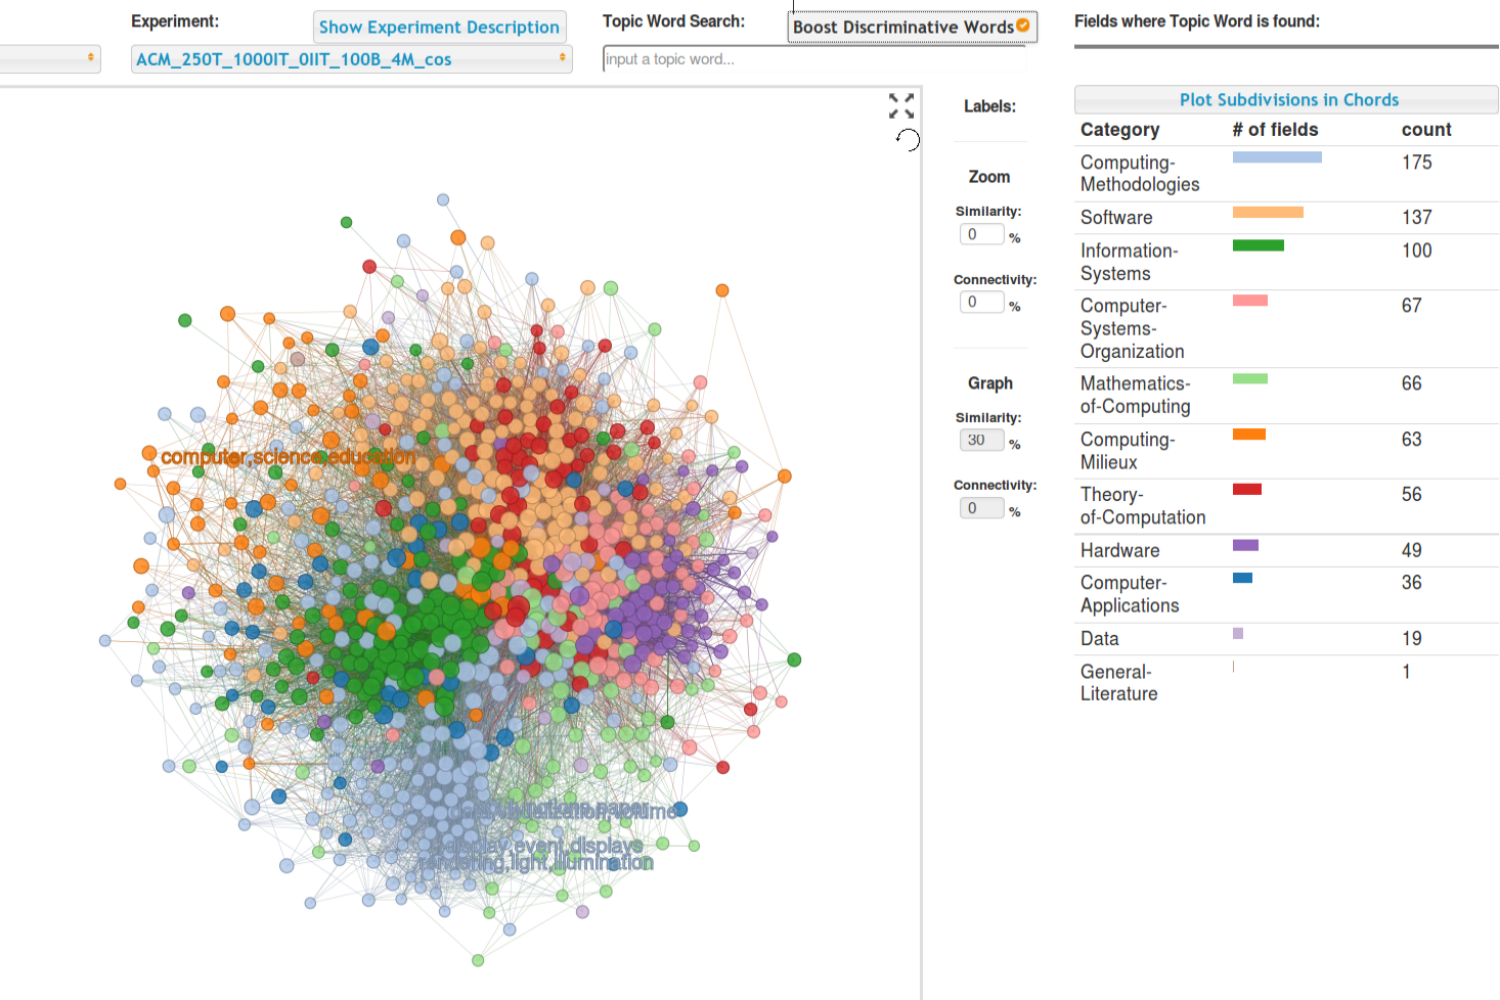
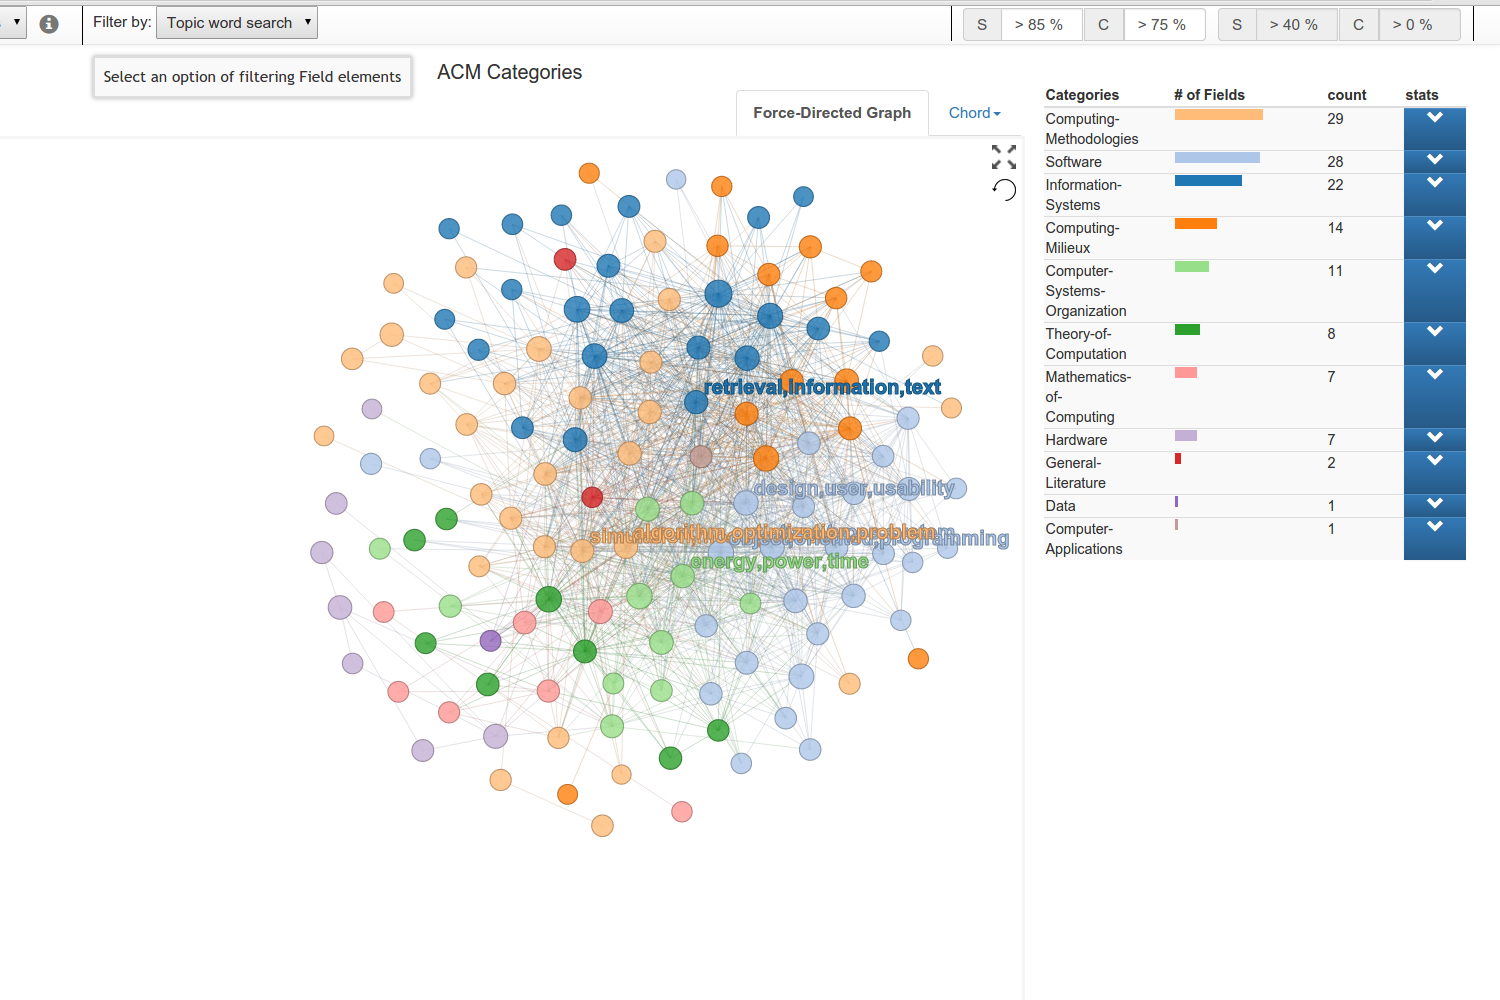
two new visualizations. fixed configuration files with their queries. small change on fading of topic word bags. change position of spinner. change function showtype in link fading from or || to and &&. added layouts in index.html

diff --git a/index.html b/index.html
@@ -175,7 +175,7 @@
                             	<span style="overflow:fixed">Experiments:</span>
 	                            <p style="overflow:scroll; height:30px;  overflow-y:; overflow-x:hidden;">
                             		<!-- <a href="./layouts/acm/categories/?ex=ACM_200T_1000IT_0IIT_100B_4M_cos" target="_blank" title="ACM_200T_1000IT_0IIT_100B_4M_cos">ACM_200T_1000IT_0IIT_100B_4M_cos</a><br/> -->
-	                            	<a href="./layouts/acm/categories/?ex=ACM_250T_1000IT_0IIT_100B_4M_cos&s=0.6" target="_blank" title="ACM_250T_1000IT_0IIT_100B_4M_cos">ACM_250T_1000IT_0IIT_100B_4M_cos</a>
+	                            	<a href="./layouts/acm/categories/?ex=ACM_250T_1000IT_0IIT_100B_4M_cos&s=0.85&g=9&c=-6450" target="_blank" title="ACM_250T_1000IT_0IIT_100B_4M_cos">ACM_250T_1000IT_0IIT_100B_4M_cos</a>
 	                            </p>
 
 	                            <p><a href="./images/acm_categories.png" class="btn btn-inverse" target="_blank" rel="tooltip" title="Preview Image"><i class="icon-eye-open"></i></a>  <a href="./layouts/acm/categories/" target="_blank" rel="tooltip" title="Visit Webpage" class="btn btn-inverse"><i class="icon-share"></i></a>
@@ -229,13 +229,19 @@
                     <div class="thumbnail">
                         <p class="front" style="position: absolute; background: #000; opacity 08.; color:#fff; width:98%;">ACM Authors</p>
                         <div class="caption">
-                            <h4>ACM Authors</h4>
+                             <h4>ACM Authors</h4>
 
-                            <p><a href="#" class="btn btn-inverse" rel="tooltip" title="Preview Image"><i class="icon-eye-open"></i></a>  <a href="#" rel="tooltip" title="Visit Webpage" class="btn btn-inverse"><i class="icon-share"></i></a>
+                                <span style="overflow:fixed">Experiments:</span>
+                                <p style="overflow:scroll; height:30px;  overflow-y:; overflow-x:hidden;">
+                                    <!-- <a href="./layouts/acm/categories/?ex=ACM_200T_1000IT_0IIT_100B_4M_cos" target="_blank" title="ACM_200T_1000IT_0IIT_100B_4M_cos">ACM_200T_1000IT_0IIT_100B_4M_cos</a><br/> -->
+                                    <a href="./layouts/acm/authors/?ex=ACM_250T_1000IT_0IIT_100B_4M_cos&s=0.55&g=3&c=-450" target="_blank" title="ACM_250T_1000IT_0IIT_100B_4M_cos">ACM_250T_1000IT_0IIT_100B_4M_cos</a>
+                                </p>
+
+                                <p><a href="./images/acm_authors.png" class="btn btn-inverse" target="_blank" rel="tooltip" title="Preview Image"><i class="icon-eye-open"></i></a>  <a href="./layouts/acm/authors/" target="_blank" rel="tooltip" title="Visit Webpage" class="btn btn-inverse"><i class="icon-share"></i></a>
 
                             </p>
                         </div>
-                        <img src="http://placehold.it/600x400" alt="ALT NAME">
+                        <img src="./images/acm_authors.png" alt="acm_authors.png">
                     </div>
                      <h4>ACM Authors</h4>
                 </li><br/>

diff --git a/layouts/acm/authors/config.php b/layouts/acm/authors/config.php
@@ -30,12 +30,13 @@ $memcache_time = 2592000;				//600 = 10 minutes 		//2592000 = 30 days (maximum f
 
 
 //$query_graphLayout = "select EntityId1,EntityId2,OurCategory1,CV1_Category0,CV1_Category1,OurCategory2,CV2_Category0,CV2_Category1,catCnts1,catCnts2,Similarity from EntitySimilarityView_cat where ExperimentId=?  and  Similarity>?";
-$query_graphLayout = "select EntityId1 as node1id,EntityId2 as node2id,EntityId1 as node1name,EntityId2 as node2name,AC1_Category0 as category1_1, AC1_Category0 as category1_2, AC1_Category0 as category1_3, AC2_Category0 as category2_1, AC2_Category0 as category2_2,AC2_Category0 as category2_3, catCnts1 as category1_counts,catCnts2 as category2_counts,Similarity from EntitySimilarityView_authors where ExperimentId=?  and  Similarity>?";
+$query_graphLayout = "select EntityId1 as node1id,EntityId2 as node2id,Author1 as node1name,Author2 as node2name,AC1_Category0 as category1_1, AC1_Category0 as category1_2, AC1_Category0 as category1_3, AC2_Category0 as category2_1, AC2_Category0 as category2_2,AC2_Category0 as category2_3, catCnts1 as category1_counts,catCnts2 as category2_counts,Similarity from EntitySimilarityView_authors where ExperimentId=? and  Similarity>?";
 $query_experiments = "select distinct ExperimentId,Description from experiment";
-//$query_grants = "select PubCategory.Category, TopicId, AVG(weight) as Weight from topicsPerDoc Inner Join PubCategory on topicsPerDoc.DocId= PubCategory.PubId INNER JOIN (Select Category FROM pubCategory GROUP BY Category HAVING Count(*)>10) catCnts1 ON catCnts1.Category = PubCategory.category where weight>0.02 AND ExperimentId=? group By PubCategory.Category , TopicId order by  pubCategory.Category, Weight desc, TopicId";
 
-// to experiment to ebala mesa sto view
-$query_grants = "select * from topicsPerDocview;";
+//$query_grants = "select PubCategoryview.Category, TopicId, AVG(weight) as Weight from topicsPerDoc Inner Join PubCategoryview on topicsPerDoc.DocId= PubCategoryview.PubId INNER JOIN (Select Category FROM PubCategoryview GROUP BY Category HAVING Count(*)>10) catCnts1 ON catCnts1.Category = PubCategoryview.category where weight>0.02 AND ExperimentId=? group By PubCategoryview.Category, TopicId order by  PubCategoryview.Category, Weight desc, TopicId";
+//$query_grants = "select category, topicid, Weight from topiccategoryview where ExperimentId=?";
+$query_grants = "select authorid, topicid, Weight from topicauthorview where ExperimentId=?";
+
 $query_topics = "select TopicId,Item, WeightedCounts from topicdescriptionview where ExperimentId=? Order By TopicID ASC, WeightedCounts DESC";
 $query_topics_nosort = "select TopicId,Item, WeightedCounts from topicdescriptionview where ExperimentId=? Order By TopicID ASC, Counts DESC";
 
@@ -46,9 +47,9 @@ $query_topics_nosort = "select TopicId,Item, WeightedCounts from topicdescriptio
 
 $title = "ACM Authors";								// title of the webpage
 $subtitle = "";								// subtitle of the webpage
-$experimentName = "ACM_250T_1000IT_0IIT_100B_4M_cos";	// first experiment to load 
+$experimentName = "ACM_250T_1000IT_0IIT_100B_4M_cos";	// first experiment to load
 $experimentDescription = "Topic modeling based on: 1)Abstracts from ACM publications 2)Authors 3)Citations 4)ACMCategories SimilarityType:cos Similarity on Authors & Categories"; 	// first description to load
-$node_name = "Authors";
+$node_name = "Author";
 $node_groupName1 = "Authors";
 $node_groupName2 = "Authors";
 $node_areaName = "ACM Category";
@@ -62,7 +63,7 @@ $fontsizeVar = 26; 				// 43 fontsizeVar variable multiplied with previous_scale
 $smallestFontVar = 13;
 
 // similarities for the graph labeling 
-$expsimilarity = 0.6;			// similarity for querying the database
+$expsimilarity = 0.55;			// similarity for querying the database
 $similarityThr = 0.68;			// similarity threshold
 $nodeConnectionsThr = 0.1; 		// node connections threshold
 $maxNodeConnectionsThr = 0; 	//percentage of minimum node connections for label printing
@@ -70,14 +71,21 @@ $linkThr = 0.4;					//similarity value threshold for label printin
 
 // d3 layout plotting
 $charge = -450;					// according to http://jsfiddle.net/cSn6w/8/			// charge of each 'electron' - or 'proton' +, positive or negative
-$gravity = 2;					// sets how close to each other the nodes are... if >1000 nodes it is good to be a number >2
+$gravity = 3;					// sets how close to each other the nodes are... if >1000 nodes it is good to be a number >2
 
 // d3 chord dimensions
-$chord_width = 0;
-$chord_height = 0;
-$wordWidth = 50;
+// $chord_width = 0;
+// $chord_height = 0;
+// $wordWidth = 50;
+// $wordHeight = 180;
+// $wordPadding = -15;				//-15 is for padding labels outside the outerRadius
+// $groupPadding = .06;			// padding between groups
+
+$chord_width = -100;
+$chord_height = -250;
+$wordWidth = 250;
 $wordHeight = 180;
-$wordPadding = -15;				//-15 is for padding labels outside the outerRadius
+$wordPadding = 0;				//-15 is for padding labels outside the outerRadius
 $groupPadding = .06;			// padding between groups
 
 

diff --git a/layouts/acm/categories/config.php b/layouts/acm/categories/config.php
@@ -14,9 +14,12 @@ $db_path = "../../../dbs/".$db_name;
 $memcache_time = 2592000;				//600 = 10 minutes 		//2592000 = 30 days (maximum for memcached) //600 = 10 minutes
 
 //$query_graphLayout = "select EntityId1,EntityId2,OurCategory1,CV1_Category0,CV1_Category1,OurCategory2,CV2_Category0,CV2_Category1,catCnts1,catCnts2,Similarity from EntitySimilarityView_cat where ExperimentId=?  and  Similarity>?";
-$query_graphLayout = "select EntityId1 as node1id,EntityId2 as node2id,EntityId1 as node1name,EntityId2 as node2name,OurCategory1 as category1_0,CV1_Category0 as category1_1,CV1_Category1 as category1_2,OurCategory2 as category2_0,CV2_Category0 as category2_1,CV2_Category1  as category2_2,catCnts1 as category1_counts,catCnts2 as category2_counts,Similarity from EntitySimilarityView_cat where ExperimentId=?  and  Similarity>?";
+$query_graphLayout = "select EntityId1 as node1id,EntityId2 as node2id,EntityId1 as node1name,EntityId2 as node2name,rootcategory1 as category1_0,rootcategory1 as category1_1,rootcategory1 as category1_2,rootcategory2 as category2_0,rootcategory2 as category2_1,rootcategory2  as category2_2,catCnts1 as category1_counts,catCnts2 as category2_counts,Similarity from EntitySimilarityView_cat where ExperimentId=?  and  Similarity>?";
+//$query_graphLayout = "select EntityId1 as node1id,EntityId2 as node2id,EntityId1 as node1name,EntityId2 as node2name,AC1_Category0 as category1_1, AC1_Category0 as category1_2, AC1_Category0 as category1_3, AC2_Category0 as category2_1, AC2_Category0 as category2_2,AC2_Category0 as category2_3, catCnts1 as category1_counts,catCnts2 as category2_counts,Similarity from EntitySimilarityView_cat where ExperimentId=? and  Similarity>?";
+
 $query_experiments = "select distinct ExperimentId,Description from experiment";
-$query_grants = "select PubCategory.Category, TopicId, AVG(weight) as Weight from topicsPerDoc Inner Join PubCategory on topicsPerDoc.DocId= PubCategory.PubId INNER JOIN (Select Category FROM pubCategory GROUP BY Category HAVING Count(*)>10) catCnts1 ON catCnts1.Category = PubCategory.category where weight>0.02 AND ExperimentId=? group By PubCategory.Category , TopicId order by  pubCategory.Category, Weight desc, TopicId";
+//$query_grants = "select PubCategoryview.Category, TopicId, AVG(weight) as Weight from topicsPerDoc Inner Join PubCategoryview on topicsPerDoc.DocId= PubCategoryview.PubId INNER JOIN (Select Category FROM PubCategoryview GROUP BY Category HAVING Count(*)>10) catCnts1 ON catCnts1.Category = PubCategoryview.category where weight>0.02 AND ExperimentId=? group By PubCategoryview.Category, TopicId order by  PubCategoryview.Category, Weight desc, TopicId";
+$query_grants = "select catid, topicid, Weight from topiccategoryview where ExperimentId=?";
 $query_topics = "select TopicId,Item, WeightedCounts from topicdescriptionview where ExperimentId=? Order By TopicID ASC, WeightedCounts DESC";
 $query_topics_nosort = "select TopicId,Item, WeightedCounts from topicdescriptionview where ExperimentId=? Order By TopicID ASC, Counts DESC";
 
@@ -43,22 +46,22 @@ $fontsizeVar = 26; 				// 43 fontsizeVar variable multiplied with previous_scale
 $smallestFontVar = 13;
 
 // similarities for the graph labeling 
-$expsimilarity = 0.6;			// similarity for querying the database
-$similarityThr = 0.68;			// similarity threshold
-$nodeConnectionsThr = 0.1; 		// node connections threshold
+$expsimilarity = 0.85;			// similarity for querying the database
+$similarityThr = 0.85;			// similarity threshold
+$nodeConnectionsThr = 0.75; 		// node connections threshold
 $maxNodeConnectionsThr = 0; 	//percentage of minimum node connections for label printing
 $linkThr = 0.4;					//similarity value threshold for label printin
 
 // d3 layout plotting
-$charge = -450;					// according to http://jsfiddle.net/cSn6w/8/			// charge of each 'electron' - or 'proton' +, positive or negative
-$gravity = 2;					// sets how close to each other the nodes are... if >1000 nodes it is good to be a number >2
+$charge = -6450;					// according to http://jsfiddle.net/cSn6w/8/			// charge of each 'electron' - or 'proton' +, positive or negative
+$gravity = 9;					// sets how close to each other the nodes are... if >1000 nodes it is good to be a number >2
 
 // d3 chord dimensions
-$chord_width = 0;
-$chord_height = 0;
-$wordWidth = 50;
+$chord_width = -100;
+$chord_height = -250;
+$wordWidth = 250;
 $wordHeight = 180;
-$wordPadding = -15;				//-15 is for padding labels outside the outerRadius
+$wordPadding = 0;				//-15 is for padding labels outside the outerRadius
 $groupPadding = .06;			// padding between groups
 
 

diff --git a/php/index_code.php b/php/index_code.php
@@ -289,7 +289,7 @@
 			clrArray = [],
 			plot = 0,
 			experDescription = "",
-			target = document.getElementById('mygraph'),
+			target = document.getElementById('graphdiv'),
 			opts = {
 				lines: 17, // The number of lines to draw
 				length: 20, // The length of each line
@@ -1210,7 +1210,7 @@ $("#ex6").on("slide", function(slideEvt) {
 
 		/* links stay with opacity or not in hover according to below condition */
 			linkLines.style("stroke-opacity", function(o) {
-				return types.indexOf(o.source.color) != -1 || types.indexOf(o.target.color) != -1 ? normal/2 : opacity;
+				return types.indexOf(o.source.color) != -1 && types.indexOf(o.target.color) != -1 ? normal/2 : opacity;
 			});
 
 
@@ -1262,7 +1262,6 @@ $("#ex6").on("slide", function(slideEvt) {
 
 		function showtype3(opacity, types){
 			nodeCircles.style("fill-opacity", function(o) {
-			console.log(o)
 				if(types.indexOf(o.name) === -1)
 					return opacity;
 				else
@@ -1298,10 +1297,8 @@ $("#ex6").on("slide", function(slideEvt) {
 			linkLines.style("stroke-opacity", function(o) {
 				return types.indexOf(o.source.name) != -1 || types.indexOf(o.target.name) != -1 ? normal/2 : opacity;
 			});
-
-
-
 		}
+
 
 	/* fade */
 		function fade(opacity, showText) {
@@ -1315,6 +1312,7 @@ $("#ex6").on("slide", function(slideEvt) {
 
 				if($(this).css("fill-opacity") < normal)
 					return false;
+
 				labels = [];
 				var selectedLabelData = null;
 
@@ -1322,6 +1320,7 @@ $("#ex6").on("slide", function(slideEvt) {
 				vis.selectAll(".labels")
 					.style("fill-opacity", opacity*3)
 					.style("stroke-opacity",opacity*3);
+
 
 				nodeCircles.style("fill-opacity", function(o) {
 					var isNodeConnectedBool = isNodeConnected(d, o);
@@ -1416,8 +1415,14 @@ $("#ex6").on("slide", function(slideEvt) {
 								var mywords = topics1[topicsGroupPerNode[i].topic];
 								var wlen = mywords.length;
 								
+
 								for(var j=0;j<wlen;j++){
-									str += "<span class='topic' style='opacity:" + mywords[j].counts/mywords[0].counts + ";'>" + mywords[j].item + "</span>";
+									var opacity; 
+									if ((opacity = mywords[j].counts/mywords[0].counts) < 0.3) {
+										opacity = 0.3;
+									}
+
+									str += "<span class='topic' style='opacity:" + opacity + ";'>" + mywords[j].item + "</span>";
 									if(j<wlen-1)
 										str += ",&nbsp";
 								}
@@ -1656,7 +1661,11 @@ $("#ex6").on("slide", function(slideEvt) {
 								var wlen = mywords.length;
 								
 								for(var j=0;j<wlen;j++){
-									str += "<span class='topic' style='opacity:" + mywords[j].counts/mywords[0].counts + ";'>" + mywords[j].item + "</span>";
+									var opacity; 
+									if ((opacity = mywords[j].counts/mywords[0].counts) < 0.3) {
+										opacity = 0.3;
+									}
+									str += "<span class='topic' style='opacity:" + opacity + ";'>" + mywords[j].item + "</span>";
 									if(j<wlen-1)
 										str += ",&nbsp";
 								}
@@ -1926,8 +1935,14 @@ $("#ex6").on("slide", function(slideEvt) {
 								var mywords = topics1[topicsGroupPerNode[i].topic];
 								var wlen = mywords.length;
 								
+
 								for(var j=0;j<wlen;j++){								
-									str += "<span class='topic' style='opacity:" + mywords[j].counts/mywords[0].counts + ";'>" + mywords[j].item + "</span>";
+									var opacity; 
+									if ((opacity = mywords[j].counts/mywords[0].counts) < 0.3) {
+										opacity = 0.3;
+									}
+
+									str += "<span class='topic' style='opacity:" + opacity + ";'>" + mywords[j].item + "</span>";
 									if(j<wlen-1)
 										str += ",&nbsp";
 								}
@@ -2273,7 +2288,12 @@ console.log(selectnodeLabels)
 									// 	// DO NOTHING
 									// }	
 									// else{									
-										str += "<span class='topic' style='opacity:" + mywords[j].counts/mywords[0].counts + ";'>" + mywords[j].item + "</span>";
+										var opacity; 
+										if ((opacity = mywords[j].counts/mywords[0].counts) < 0.3) {
+											opacity = 0.3;
+										}
+
+										str += "<span class='topic' style='opacity:" + opacity + ";'>" + mywords[j].item + "</span>";
 										if(j<wlen-1)
 											str += ",&nbsp";
 //									}

diff --git a/php/dbfront_code.php b/php/dbfront_code.php
@@ -4,7 +4,7 @@ ini_set('max_execution_time', $max_execution_time);
 //ini_set('memory_limit', '-1');		// unlimited memory
 ini_set('memory_limit', $memory_limit);	
 
-
+set_time_limit(0);
 /// ! important
 // Firstly memcache should be installed in server to use the class Memcache().
 // Check the below:
